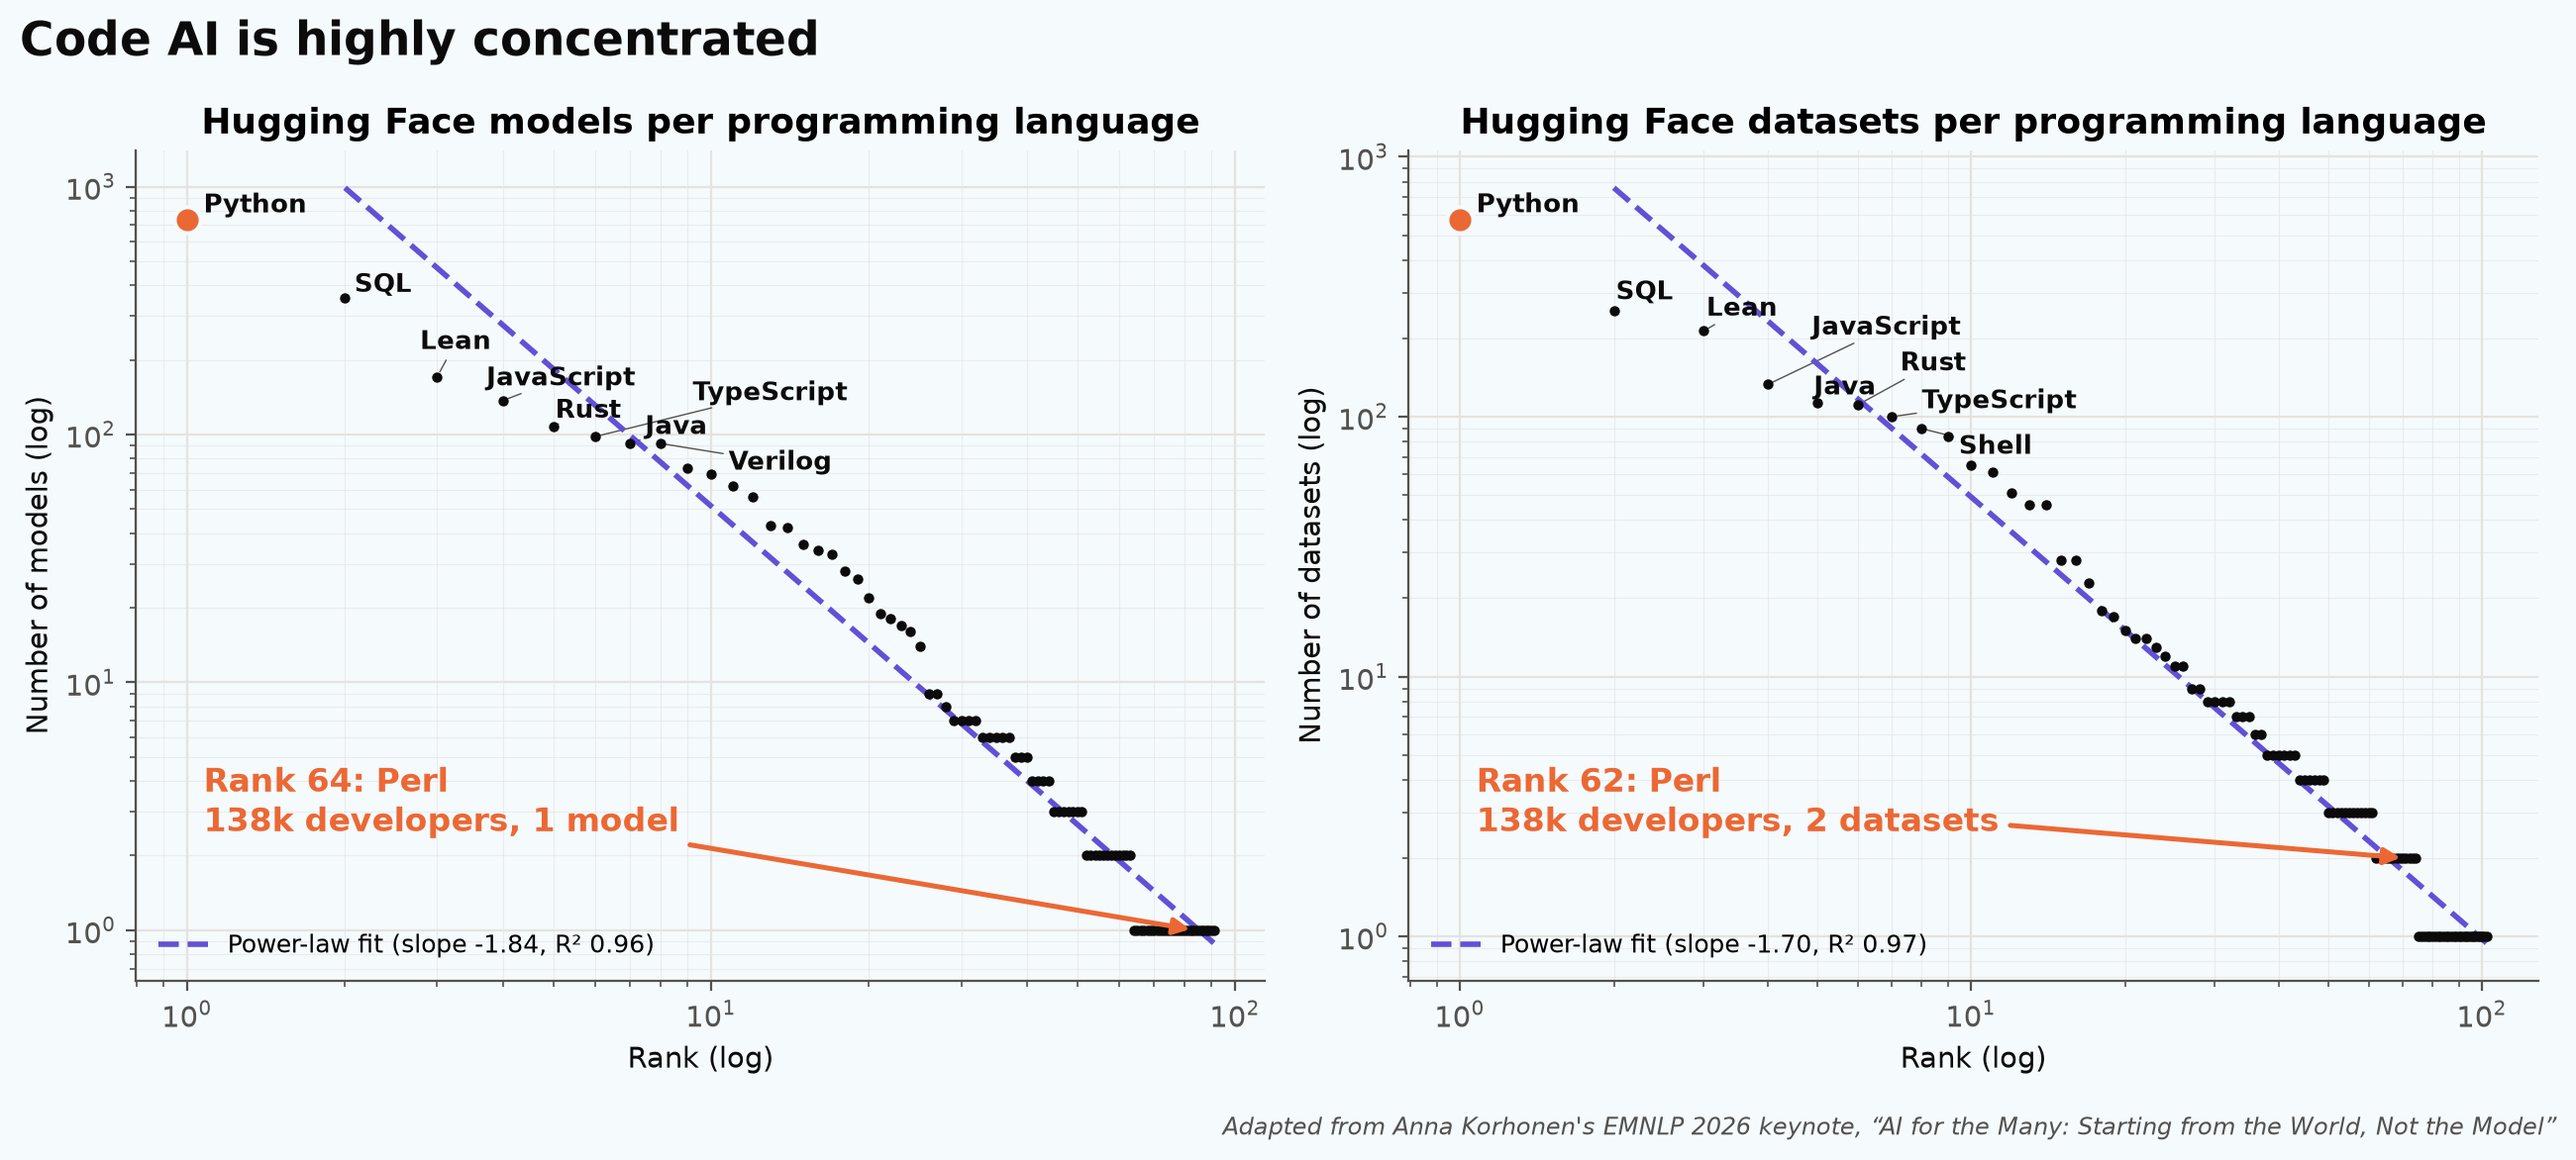
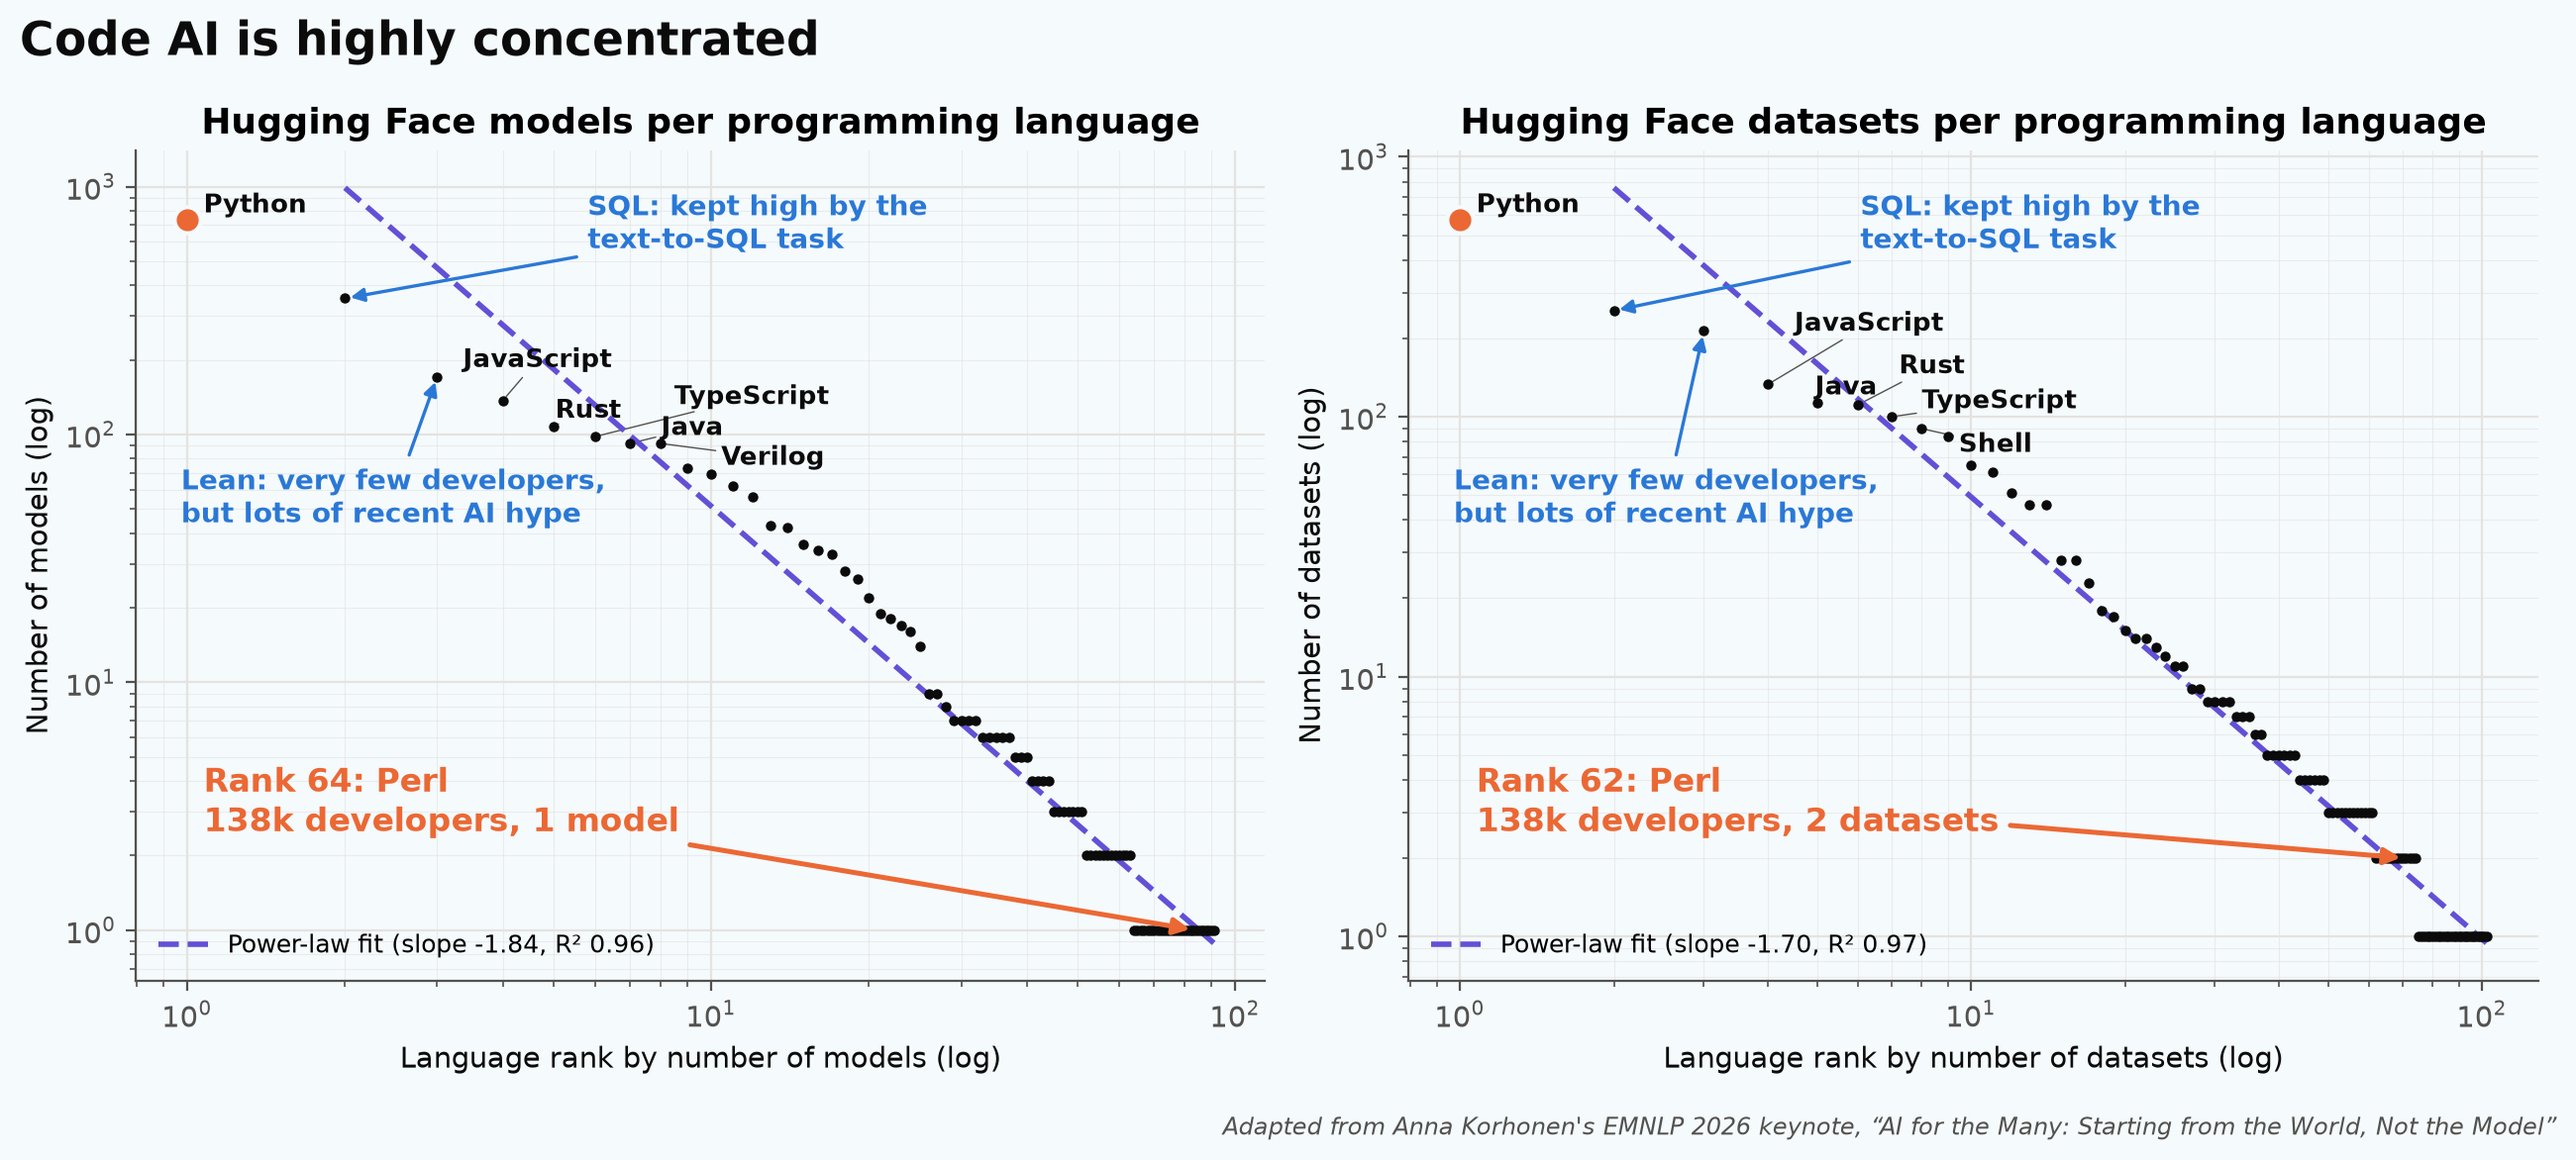
Bump zipf.

diff --git a/src/plots.py b/src/plots.py
@@ -70,6 +70,13 @@ Fit = stats._stats_py.LinregressResult
 # zero counts can't go on a log scale, so where needed they are treated as this
 ZERO_AS = 0.5
 
+# languages ranked far higher on the zipf plot than their developer count suggests,
+# with why, and where (axes fraction) each note sits so it avoids the other labels
+ZIPF_NOTES = {
+    "SQL": ("SQL: kept high by the\ntext-to-SQL task", (0.40, 0.95)),
+    "Lean": ("Lean: very few developers,\nbut lots of recent AI hype", (0.04, 0.62)),
+}
+
 
 def gini(
     values: np.ndarray,
@@ -174,7 +181,7 @@ def zipf_panel(
         linewidth=1.5,
     )
 
-    # label the top 8 languages
+    # label the top 8 languages, except those that get a note below
     texts = [
         ax.text(
             r["rank"],
@@ -185,9 +192,25 @@ def zipf_panel(
             color=INK,
         )
         for _, r in d.head(8).iterrows()
+        if r.language not in ZIPF_NOTES
     ]
     ax.set_xscale("log")
     ax.set_yscale("log")
+
+    # explain the oddly high languages with a note and an arrow
+    for language, (note, xytext) in ZIPF_NOTES.items():
+        r = d[d.language == language].iloc[0]
+        ax.annotate(
+            note,
+            (r["rank"], r[kind]),
+            xytext=xytext,
+            textcoords="axes fraction",
+            va="top",
+            fontsize=10,
+            fontweight="bold",
+            color=TOP,
+            arrowprops=dict(arrowstyle="-|>", color=TOP, lw=1.2),
+        )
     adjust_text(
         texts,
         x=d["rank"].to_numpy(),
@@ -196,7 +219,7 @@ def zipf_panel(
         arrowprops=dict(arrowstyle="-", color=INK_2, lw=0.5),
     )
     loglog_grid(ax)
-    ax.set_xlabel("Rank (log)")
+    ax.set_xlabel(f"Language rank by number of {kind} (log)")
     ax.set_ylabel(f"Number of {kind} (log)")
     ax.set_title(f"Hugging Face {kind} per programming language")
     ax.legend(loc="lower left", frameon=False, fontsize=9)

diff --git a/METHOD.md b/METHOD.md
@@ -152,7 +152,9 @@ Computed separately for models and for datasets ("count" below):
 ## 5. Figures — `plots.py` → `figures/`
 
 - **`zipf.png`:** rank vs. count, log-log, for models (left) and datasets (right), with
-  the Zipf fit dashed and the top 8 labelled.
+  the Zipf fit dashed and the top 8 labelled. SQL and Lean get notes explaining why
+  they rank so high: SQL is lifted by the text-to-SQL task, and Lean has very few
+  developers but lots of recent AI theorem-proving attention.
   - The callout is the language with the most developers per model among those with
     ≥100k developers and ≥1 model (Perl).
 - **`developers_vs_models.png`** and **`developers_vs_datasets.png`:** developers (x)
